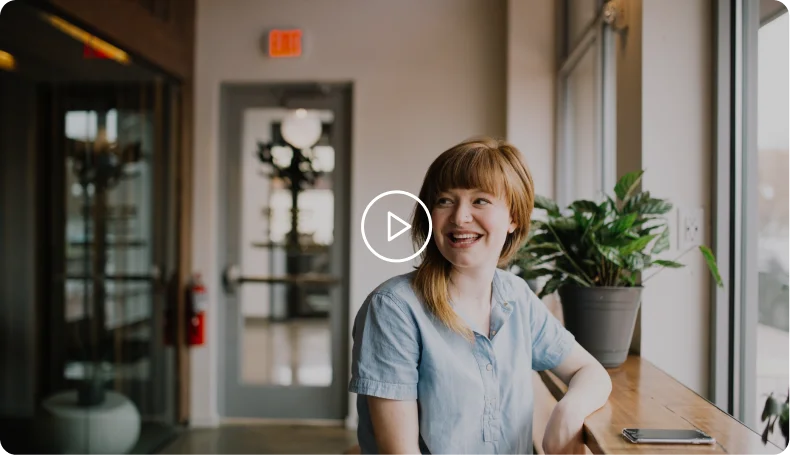
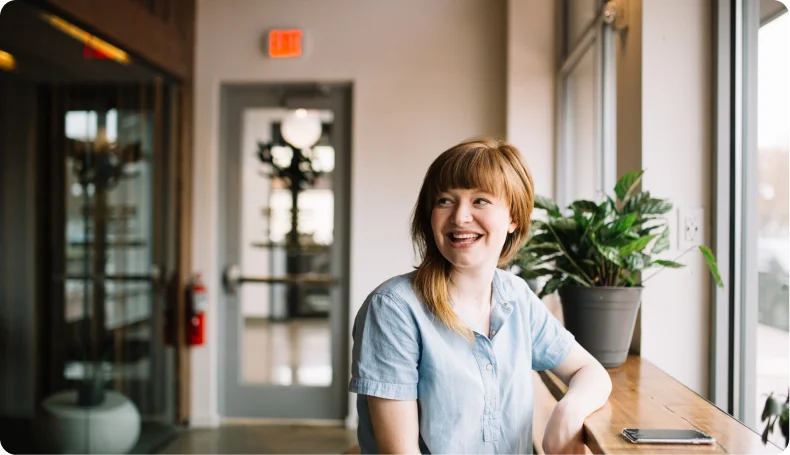
succes section

diff --git a/styles/succes.css b/styles/succes.css
@@ -1,0 +1,106 @@
+.succes {
+  background-color: var(--co-dark-green);
+}
+
+.succes__wrapper {
+  padding: 220px 0;
+  display: flex;
+  justify-content: space-between;
+  align-items: flex-start;
+  flex-wrap: wrap-reverse;
+  gap: 40px;
+}
+
+.succes__content {
+  margin: 50px 0 0 0;
+  max-width: 550px;
+  display: flex;
+  flex-direction: column;
+  /* justify-content: flex-start; */
+  place-items: start;
+  gap: 20px;
+}
+
+.succes__content .btn {
+  width: 240px;
+  height: 65px;
+  margin: 50px 0 0 0;
+}
+
+.succes__content .btn:hover {
+  outline: 2px solid var(--co-white);
+}
+
+.secces__title {
+  color: var(--co-white);
+  font-size: 50px;
+  font-weight: 700;
+}
+
+.succes__description {
+  font-size: 25px;
+  font-weight: 600;
+  color: var(--co-white);
+}
+
+.succes__content-video {
+  max-width: 790px;
+  height: 455px;
+  position: relative;
+  border-radius: 16px;
+  overflow: hidden;
+}
+
+.succes__cover {
+  width: 100%;
+  height: 100%;
+  object-fit: cover;
+  aspect-ratio: 158/91;
+}
+
+.succes__play-icon {
+  position: absolute;
+  z-index: 2;
+  width: 72px;
+  height: 73px;
+  fill: var(--co-white);
+  top: 50%;
+  left: 50%;
+  translate: -50% -50%;
+}
+
+.succes__play-icon:hover {
+  fill: var(--co-green);
+  cursor: pointer;
+}
+
+.succes__gradient {
+  position: absolute;
+  z-index: 1;
+  inset: 0;
+  background: linear-gradient(180deg, rgba(0, 0, 0, 0.1), rgba(0, 0, 0, 0.5))
+    center/cover no-repeat;
+}
+
+@media (max-width: 1399px) {
+  .succes__wrapper {
+    justify-content: center;
+  }
+
+  .succes__content {
+    text-align: center;
+    place-items: center;
+  }
+}
+
+@media (max-width: 576px) {
+  .succes__wrapper {
+    padding: 150px 0;
+  }
+  .secces__title {
+    font-size: 32px;
+  }
+  .succes__description {
+    font-size: 20px;
+  }
+}

diff --git a/index.html b/index.html
@@ -119,6 +119,34 @@
           </div>
         </div>
       </section>
+
+      <section class="succes" aria-label="succes section">
+        <div class="container">
+          <div class="succes__wrapper">
+            <div class="succes__content">
+              <h3 class="secces__title">
+                Let's hear about Kayla's success story
+              </h3>
+              <p class="succes__description">
+                See how well Alivio works in a real customer’s life.
+              </p>
+              <button class="btn">Let’s get started</button>
+            </div>
+
+            <div class="succes__content-video">
+              <img
+                src="assets/webp/video.webp"
+                class="succes__cover"
+                alt="video cover img"
+              />
+              <svg class="succes__play-icon" aria-label="play icon">
+                <use href="assets/sprites.svg#play-icon"></use>
+              </svg>
+              <div class="succes__gradient"></div>
+            </div>
+          </div>
+        </div>
+      </section>
     </main>
   </body>
 </html>

diff --git a/index.css b/index.css
@@ -4,3 +4,4 @@
 @import url(styles/hero.css);
 @import url(styles/about.css);
 @import url(styles/card.css);
+@import url(styles/succes.css);
